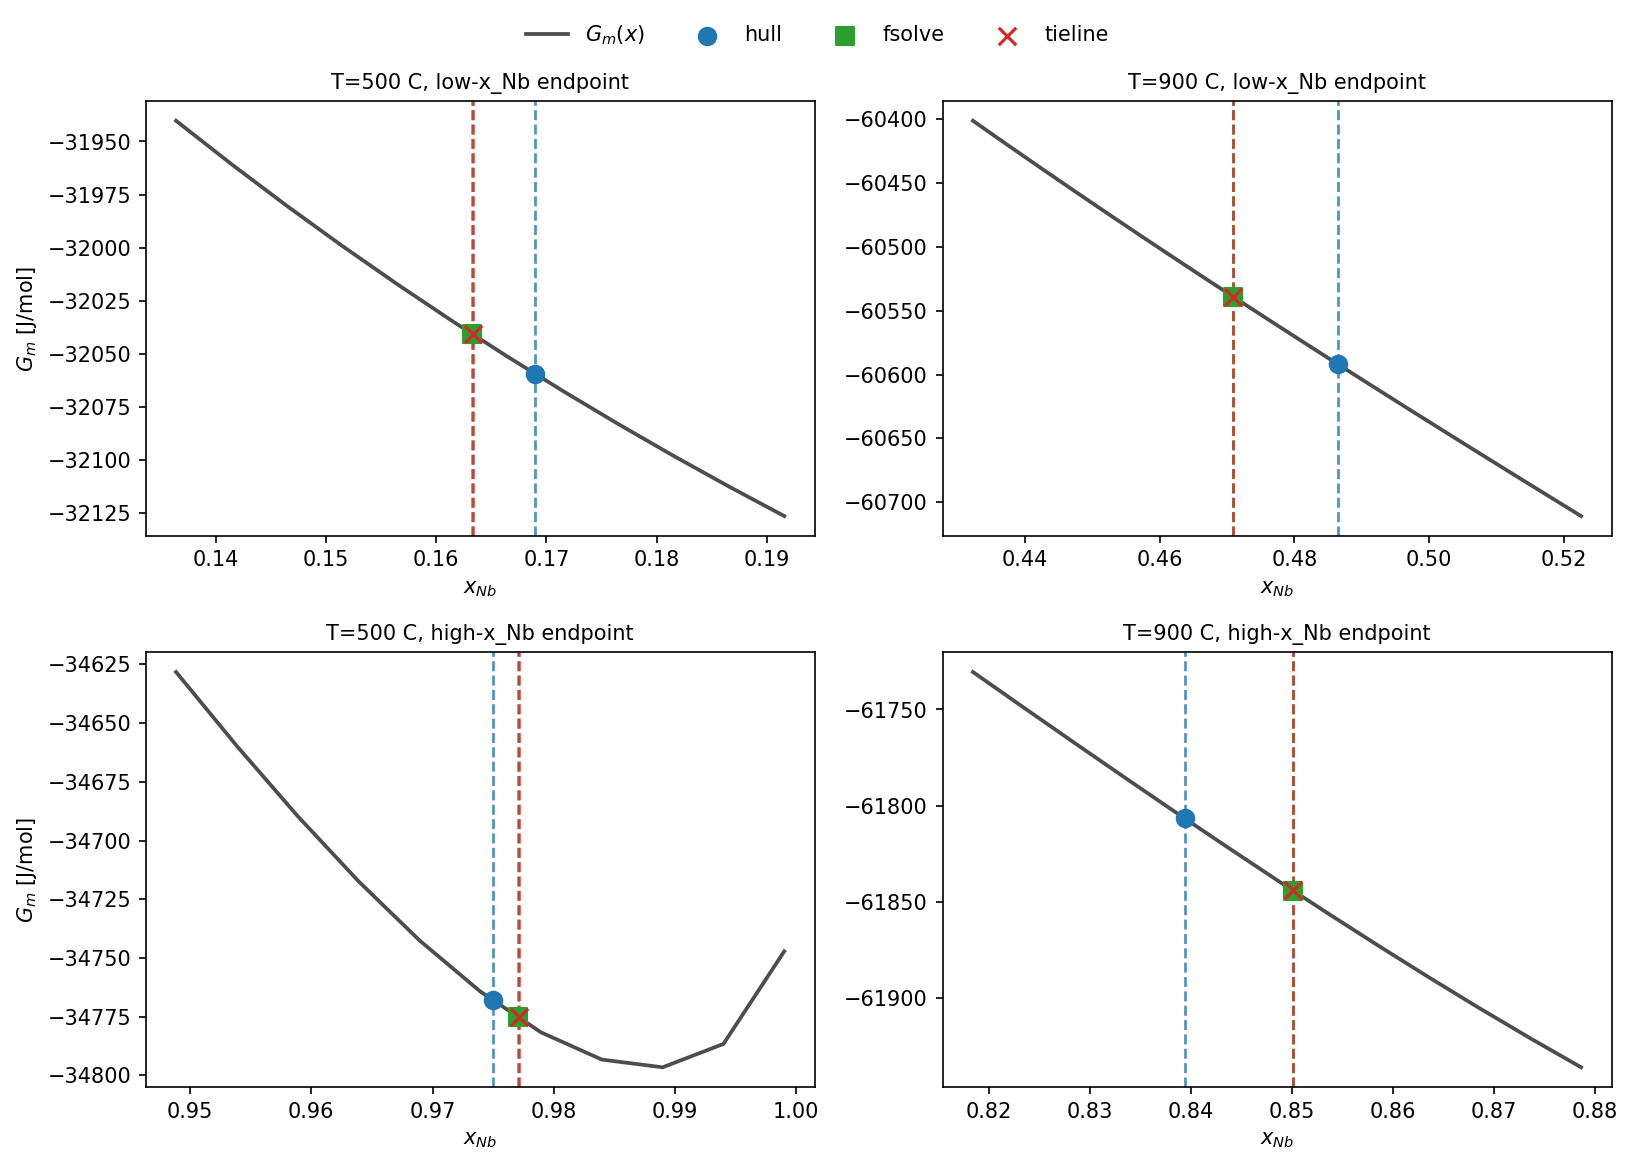
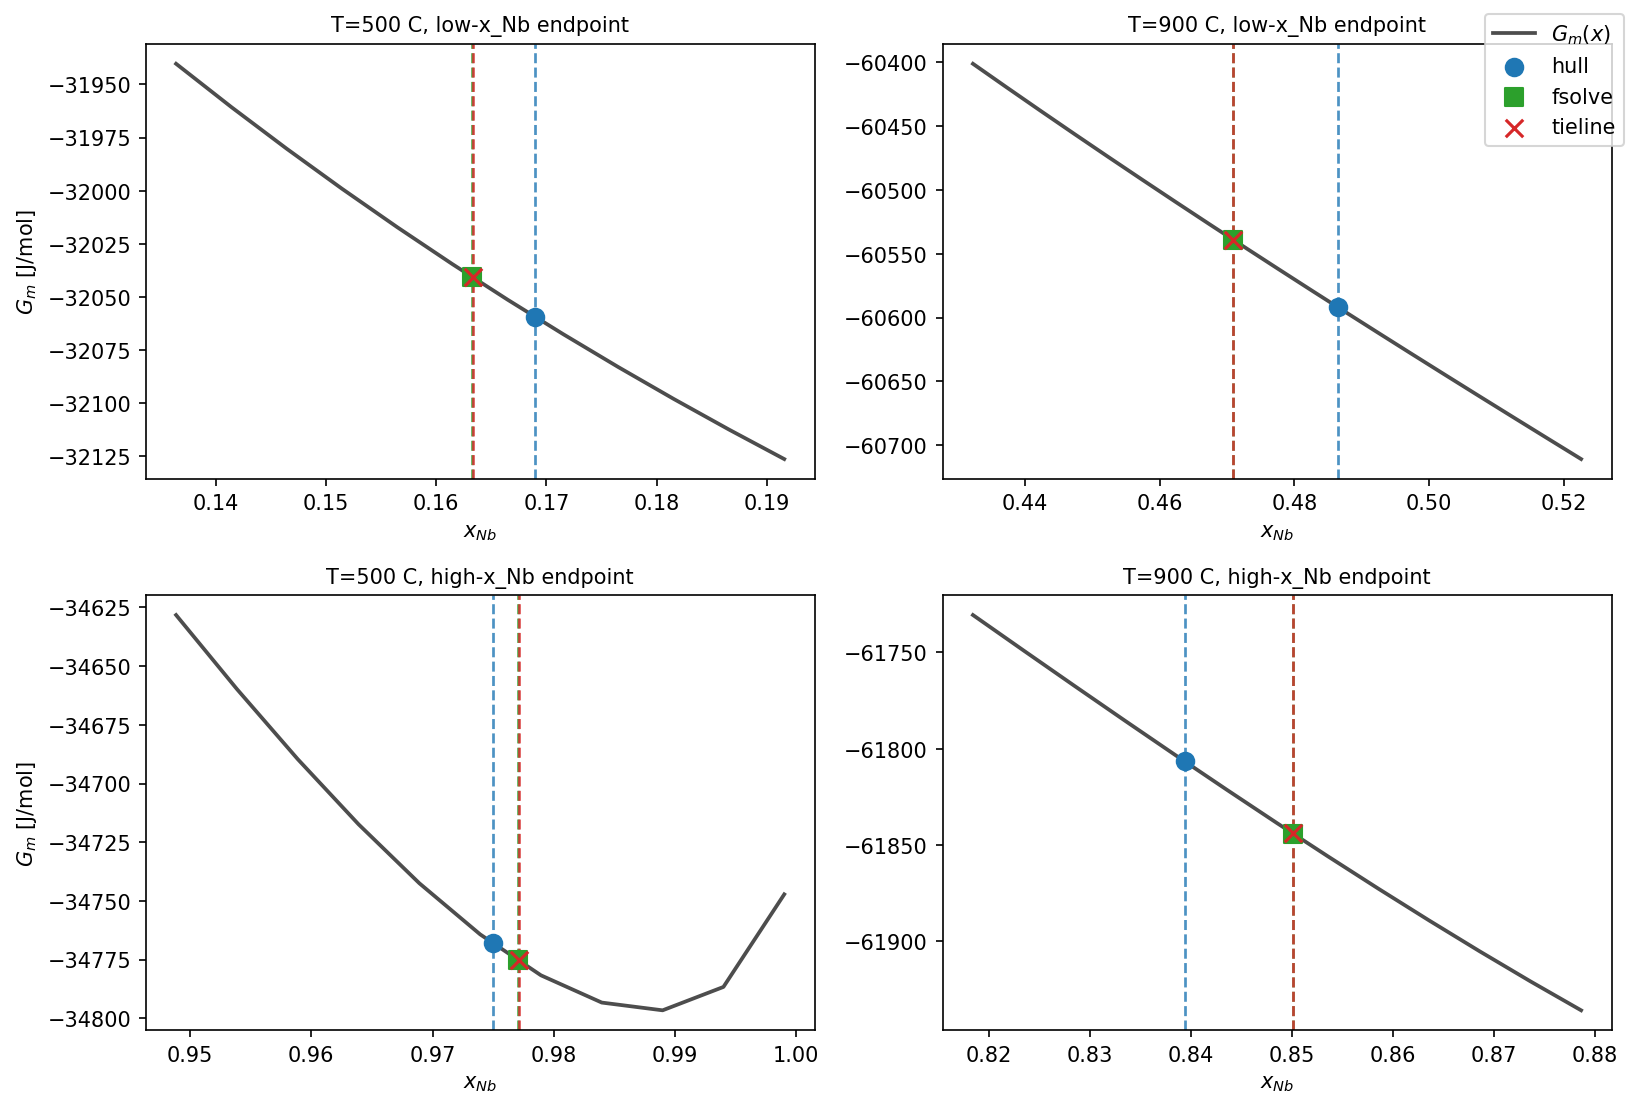
Fix hardcoded 'two-phase tie-line' label in pf-tieline to reflect actual phase count; update docs and figures

diff --git a/workflows/01c_calphad_tieline/run.py b/workflows/01c_calphad_tieline/run.py
@@ -98,8 +98,12 @@ def run_tieline(config_path: str) -> None:
         print("Tip: check if the temperature is above the miscibility gap.")
         # Still write the single endpoint so the file exists
         endpoints = active
-    else:
+    elif len(active) == 2:
         print(f"\n{len(active)} BCC_A2 phases found (two-phase tie-line).")
+        endpoints = active
+    else:
+        print(f"\n{len(active)} BCC_A2 phases found "
+              f"({len(active)}-phase equilibrium — not a simple two-phase tie-line).")
         endpoints = active
 
     # Label matrix (V-poor) and precipitate (V-rich)

diff --git a/docs/tutorial_tieline_phase_map.md b/docs/tutorial_tieline_phase_map.md
@@ -57,7 +57,7 @@ c0       : {'NB': 0.5, 'HF': 0.25}
   BCC_A2  fraction=0.4544
   BCC_A2  fraction=0.2807
 
-3 BCC_A2 phases found (two-phase tie-line).
+3 BCC_A2 phases found (3-phase equilibrium — not a simple two-phase tie-line).
 
 === Tie-line endpoints ===
   phase_0: x_NB=0.2316  x_HF=0.7631  x_V=0.0054
@@ -69,22 +69,21 @@ c0       : {'NB': 0.5, 'HF': 0.25}
 
 Two things worth stopping on immediately:
 
-1. **Three phase instances, not two.** The script's own log line says
-   "two-phase tie-line" (that's just its default message — it was written
-   assuming the common case), but it actually found three simultaneously
-   stable `BCC_A2` compositions, with comparable phase fractions
-   (26%/45%/28%, not one dominant phase plus two numerical slivers).
+1. **Three phase instances, not two.** It actually found three
+   simultaneously stable `BCC_A2` compositions, with comparable phase
+   fractions (26%/45%/28%, not one dominant phase plus two numerical
+   slivers) — a genuine three-phase equilibrium, not an artifact.
 2. **The "suggested elastic config update" section is empty.** The
    script only knows how to turn its result into `c_mat`/`c_ppt` text when
    exactly two phases are found (it sorts two endpoints into `mat`/`ppt` by
    reference-element content); given three, it has nothing to suggest.
 
-This isn't a bug in the tie-line script — it's telling you something true
-and specific: **at this exact composition and temperature, the real
-equilibrium state isn't a simple two-phase matrix/precipitate split at
-all.** No pair of endpoints you choose from a two-phase framework can be
-"the" correct tie-line here, because the real answer has three vertices,
-not two.
+Neither of these is a bug in the tie-line script — it's telling you
+something true and specific: **at this exact composition and temperature,
+the real equilibrium state isn't a simple two-phase matrix/precipitate
+split at all.** No pair of endpoints you choose from a two-phase framework
+can be "the" correct tie-line here, because the real answer has three
+vertices, not two.
 
 ---
 

diff --git a/docs/tutorial_binary_tieline.md b/docs/tutorial_binary_tieline.md
@@ -12,7 +12,7 @@ has no simple visual equivalent.
 
 <figure class="pf-figure" markdown>
 ![What a tie-line is: the common tangent connecting matrix and precipitate on the Nb-V G_m(x) curve at 500 C](images/tutorial_binary_tieline/00_tieline_concept.png)
-<figcaption markdown>**The tie-line, drawn on the real curve.** `pf-tieline`'s actual result for Nb-V at 500 °C, plotted on the CALPHAD `G_m(x)` curve it was computed from. The red line is the common tangent: it touches the curve at exactly the matrix and precipitate compositions and lies on or below it everywhere in between — the gap between curve and line is the free energy a homogeneous alloy at any intermediate composition gives up by *not* phase-separating.</figcaption>
+<figcaption markdown>**The tie-line, drawn on the real curve.** `pf-tieline`'s result for Nb-V at 500 °C, on the actual CALPHAD `G_m(x)` curve. The red line is the common tangent — touching the curve at the matrix and precipitate compositions, lying on or below it between them. That gap is the driving force to phase-separate.</figcaption>
 </figure>
 
 Verified numerically, not just by eye: `G_m(x) − tie-line(x) ≥ 0` across
